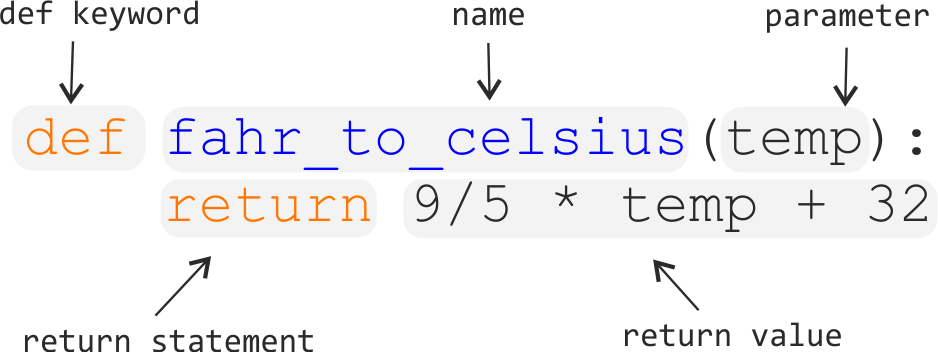
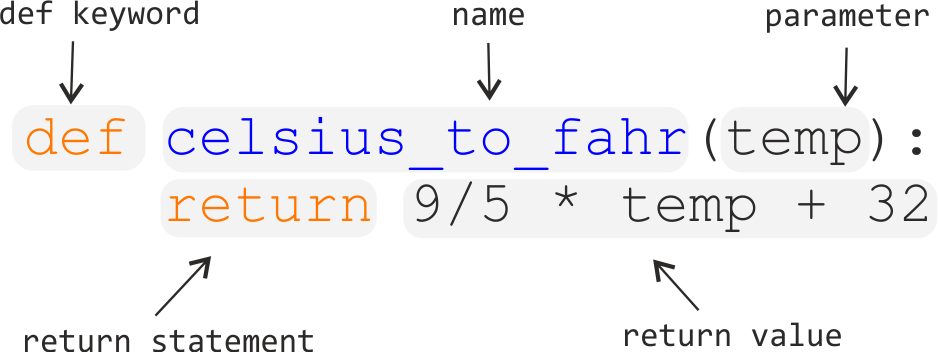
Added examples how to use the function, fixed function logic to correct one.

diff --git a/Lecture/functions.md b/Lecture/functions.md
@@ -15,10 +15,10 @@ Let's consider the task from the first week when we converted temperatures from 
 when dealing with temperatures. Thus we might need to repeat such calculations quite frequently when analysing or comparing e.g. weather or 
 climate changes between US and Europe.
    
-Let's define our first function called ´fahr_to_celsius´:
+Let's define our first function called `celsius_to_fahr`:
 
   ```python
-  def fahr_to_celsius(temp):
+  def celsius_to_fahr(temp):
     return 9/5 * temp + 32
   ```
   
@@ -31,6 +31,15 @@ When we call the function, the values we pass to it are assigned to those variab
 Inside the function, we use a return statement to send a result back to whoever asked for it.
 
 Let’s try running our function. Calling our own function is no different from calling any other function:  
+  
+   ```python
+   >>> print('Freezing point of water in Fahrenheits:', celsius_to_fahr(0))
+   Freezing point of water in Fahrenheits: 32.0
+   >>> print('Boiling point of water in Fahrenheits:', celsius_to_fahr(100))
+   Boiling point of water in Fahrenheits: 212.0
+   ```
+
+
 
 **TODO**
 
